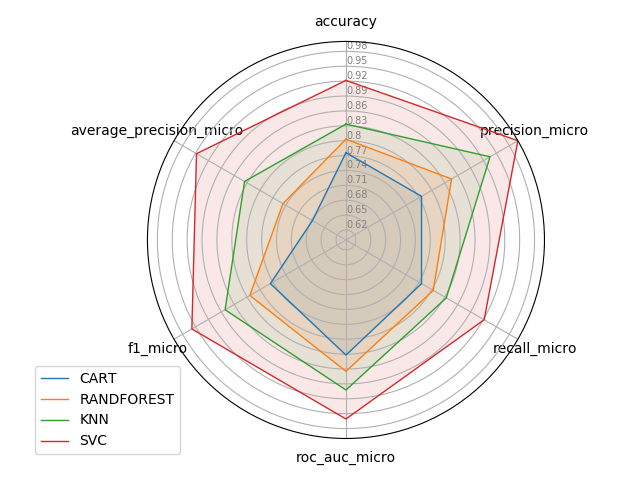
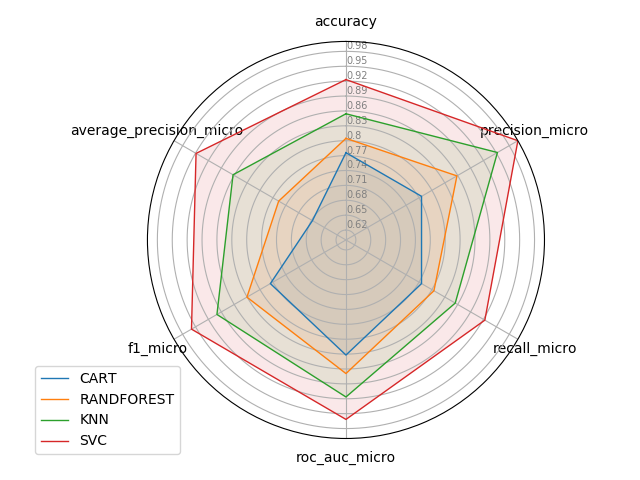
radar_plot

diff --git a/main.py b/main.py
@@ -192,27 +192,48 @@ if __name__ == '__main__':
                 testing(X, Y, models, scoring, seed, name_radar_plot_file)
 
     for dataset_name in dataset_names:
-        for perc_NaN in percentuals_NaN:
-            if dataset_name == "balance":
+        if dataset_name == "balance":
+            for perc_NaN in percentuals_NaN:
                 for strategy in strategies:
                     X, Y, scoring, name_setting_file, name_radar_plot_file = \
                         case_NaN_dataset_classification(dataset_name, strategy=strategy, seed=seed, perc_NaN=perc_NaN)
                     models = training.build_models(name_models, name_setting_file)
                     testing(X, Y, models, scoring, seed, name_radar_plot_file)
-            if dataset_name == "seed":
+        if dataset_name == "seed":
+            for perc_NaN in [0.5]:
+                for strategy in ["mean", "median"]:
+                    X, Y, scoring, name_setting_file, name_radar_plot_file = \
+                        case_NaN_dataset_classification(dataset_name, strategy=strategy, seed=seed, perc_NaN=perc_NaN)
+                    models = training.build_models(name_models, name_setting_file)
+                    testing(X, Y, models, scoring, seed, name_radar_plot_file)
+            for perc_NaN in [0.1, 0.2, 0.3]:
                 for strategy in ["mean", "median", "eliminate_row"]:
                     X, Y, scoring, name_setting_file, name_radar_plot_file = \
                         case_NaN_dataset_classification(dataset_name, strategy=strategy, seed=seed, perc_NaN=perc_NaN)
                     models = training.build_models(name_models, name_setting_file)
                     testing(X, Y, models, scoring, seed, name_radar_plot_file)
-            if dataset_name == "tris":
+        if dataset_name == "tris":
+            for perc_NaN in [0.1, 0.2, 0.3]:
                 for strategy in ["mode", "eliminate_row"]:
                     X, Y, scoring, name_setting_file, name_radar_plot_file = \
                         case_NaN_dataset_classification(dataset_name, strategy=strategy, seed=seed, perc_NaN=perc_NaN)
                     models = training.build_models(name_models, name_setting_file)
                     testing(X, Y, models, scoring, seed, name_radar_plot_file)
-            if dataset_name == "zoo":
+            for perc_NaN in [0.5]:
+                for strategy in ["mode"]:
+                    X, Y, scoring, name_setting_file, name_radar_plot_file = \
+                        case_NaN_dataset_classification(dataset_name, strategy=strategy, seed=seed, perc_NaN=perc_NaN)
+                    models = training.build_models(name_models, name_setting_file)
+                    testing(X, Y, models, scoring, seed, name_radar_plot_file)
+        if dataset_name == "zoo":
+            for perc_NaN in [0.05, 0.075, 0.1]:
                 for strategy in ["mode", "eliminate_row"]:
+                    X, Y, scoring, name_setting_file, name_radar_plot_file = \
+                        case_NaN_dataset_classification(dataset_name, strategy=strategy, seed=seed, perc_NaN=perc_NaN)
+                    models = training.build_models(name_models, name_setting_file)
+                    testing(X, Y, models, scoring, seed, name_radar_plot_file)
+            for perc_NaN in [0.3, 0.5]:
+                for strategy in ["mode"]:
                     X, Y, scoring, name_setting_file, name_radar_plot_file = \
                         case_NaN_dataset_classification(dataset_name, strategy=strategy, seed=seed, perc_NaN=perc_NaN)
                     models = training.build_models(name_models, name_setting_file)

diff --git a/training.py b/training.py
@@ -204,7 +204,7 @@ def SVC_training(X, Y, scoring, seed, n_split, mean):
     # setto valori numerici per evitare problemi nella lettura e conversione da file, tanto non verranno visti dal
     # costruttore del modello se sono ancora None a questo punto del codice
     if best_gamma is None:
-        best_gamma = 0.0
+        best_gamma = 'auto'
     if best_degree is None:
         best_degree = 0
 
@@ -280,9 +280,13 @@ def build_models(name_models, file_name):
         models['KNN'] = KNeighborsClassifier(n_neighbors=int(settings["best_k"]), weights='distance')
 
     if 'SVC' in name_models:
-        models['SVC'] = OneVsRestClassifier(SVC(kernel=settings["best_kernel"], C=float(settings["best_C"]),
-                                                gamma=float(settings["best_gamma"]),
-                                                degree=int(settings["best_degree"])))
+        if settings["best_gamma"] == "'auto'":
+            models['SVC'] = OneVsRestClassifier(SVC(kernel=settings["best_kernel"], C=float(settings["best_C"]),
+                                                    degree=int(settings["best_degree"])))
+        else:
+            models['SVC'] = OneVsRestClassifier(SVC(kernel=settings["best_kernel"], C=float(settings["best_C"]),
+                                                    gamma=float(settings["best_gamma"]),
+                                                    degree=int(settings["best_degree"])))
 
     fl.close()
 
